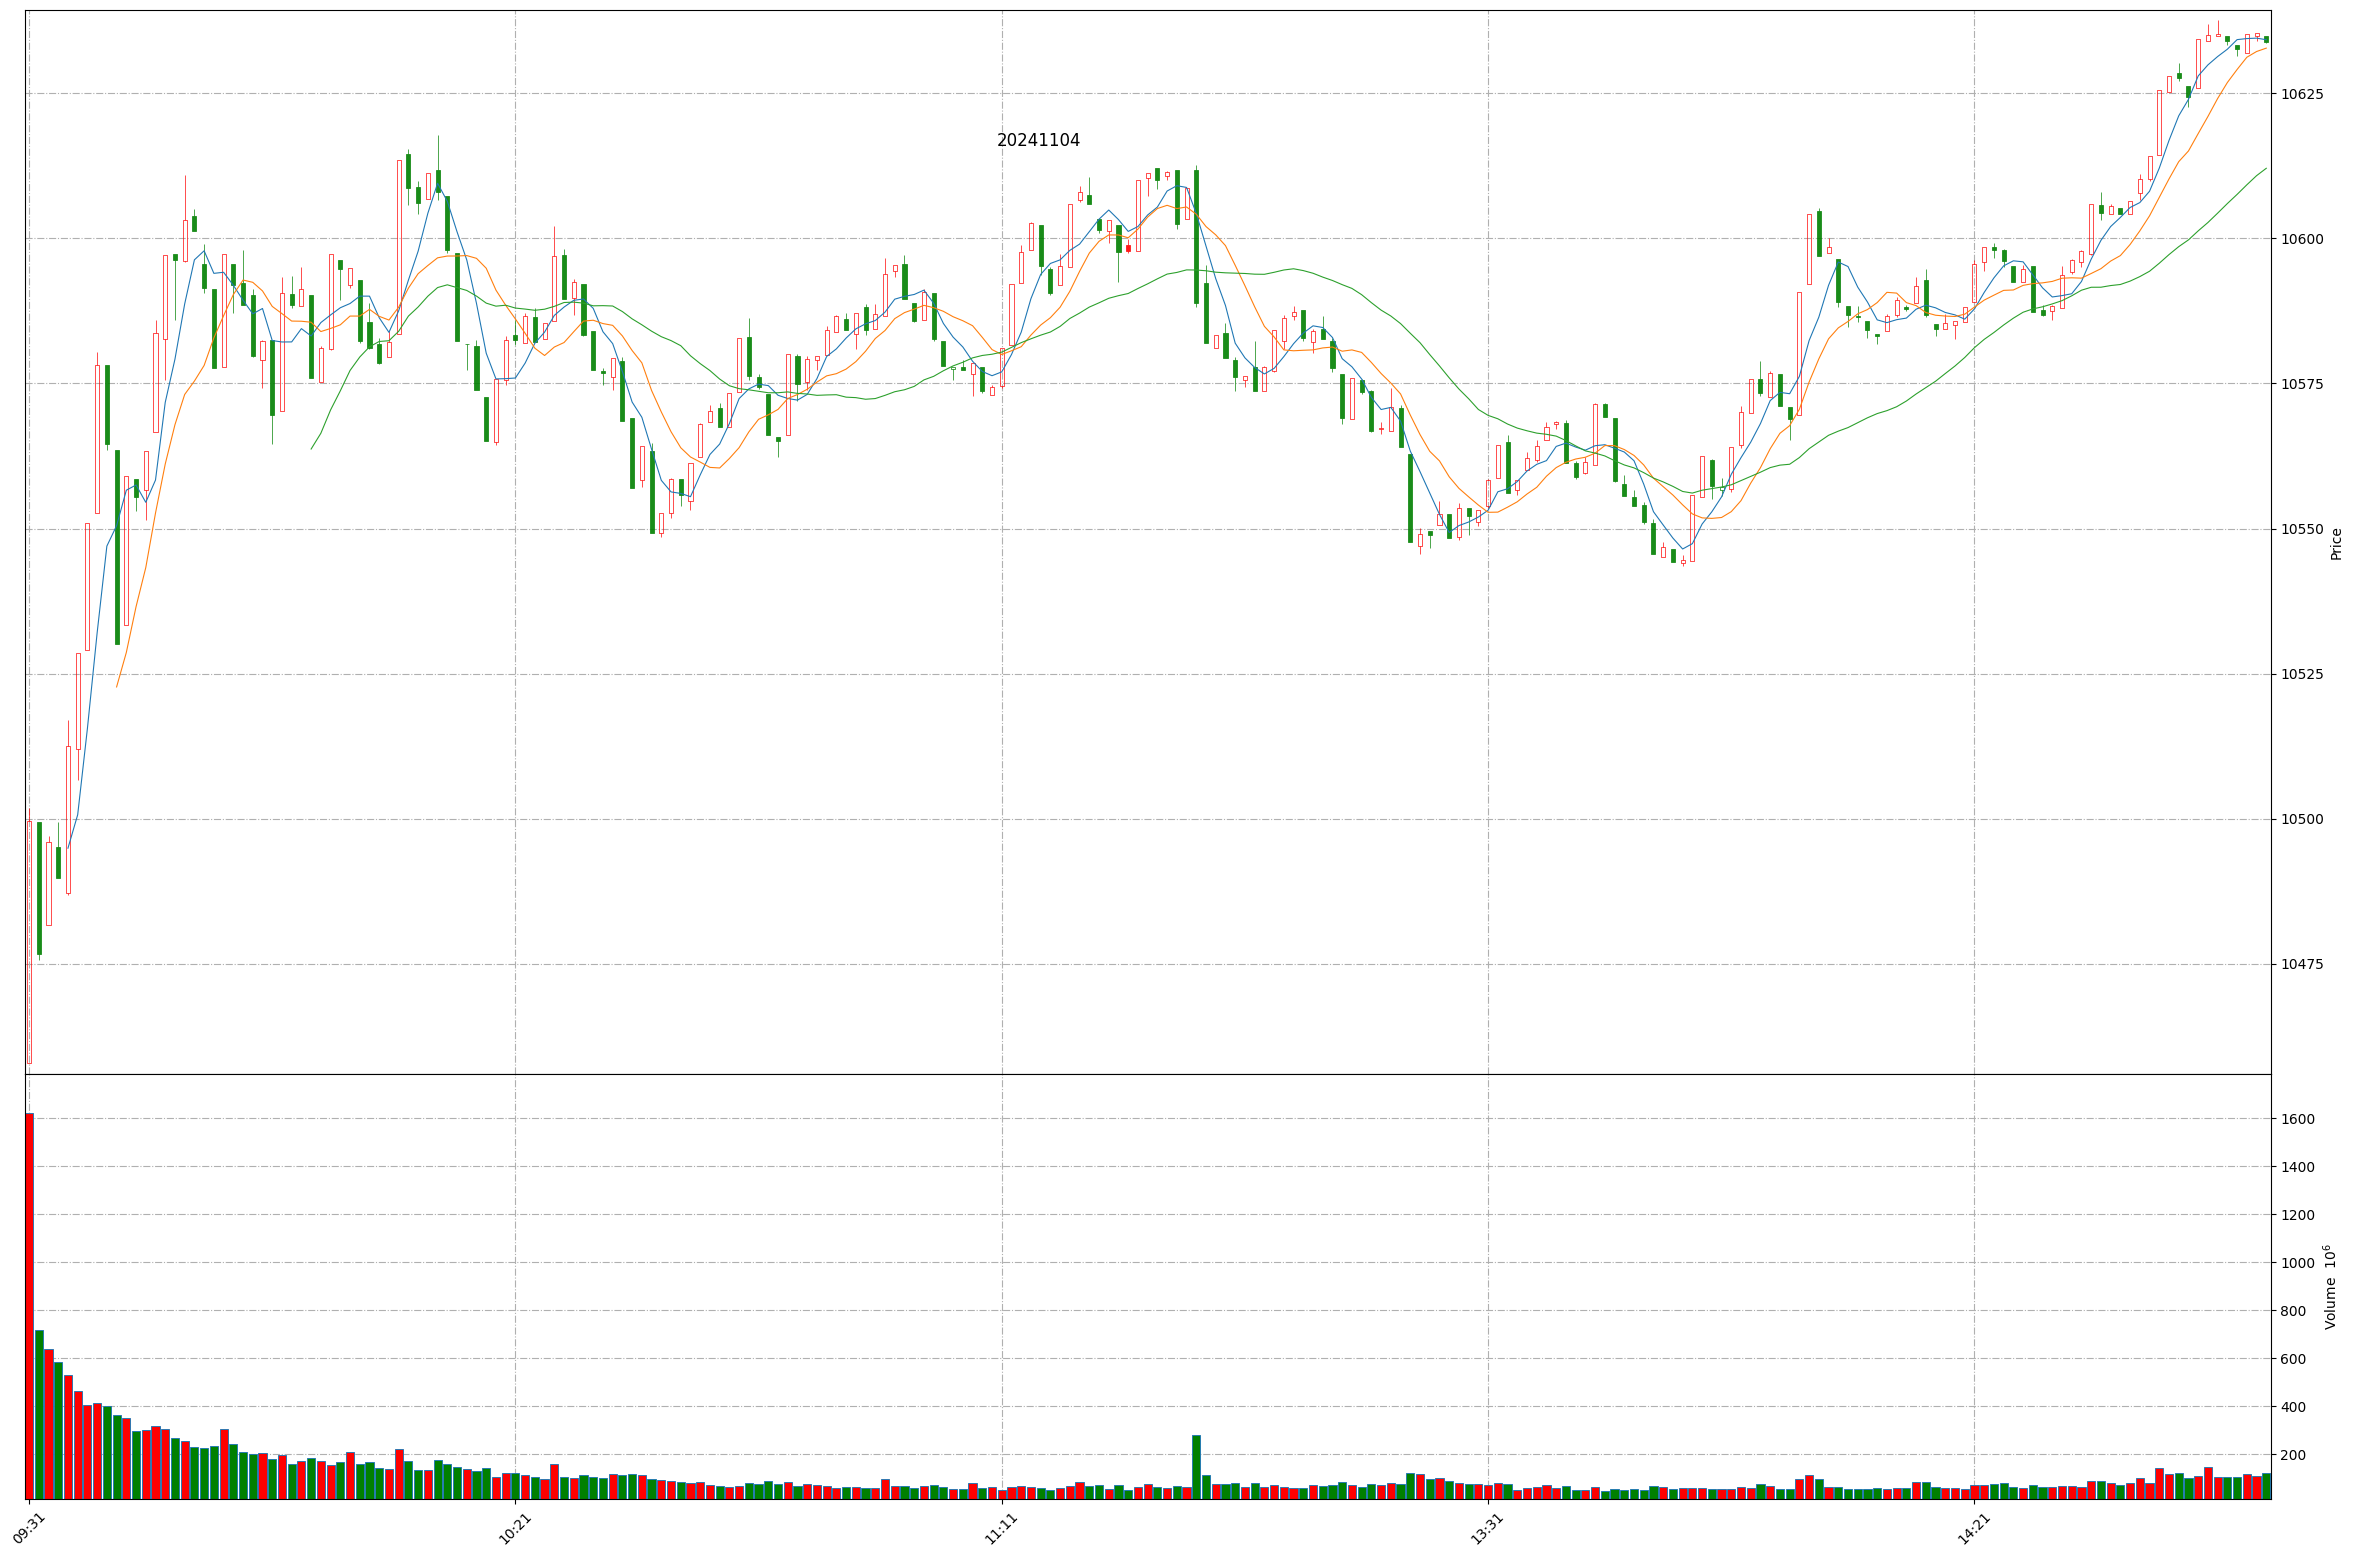
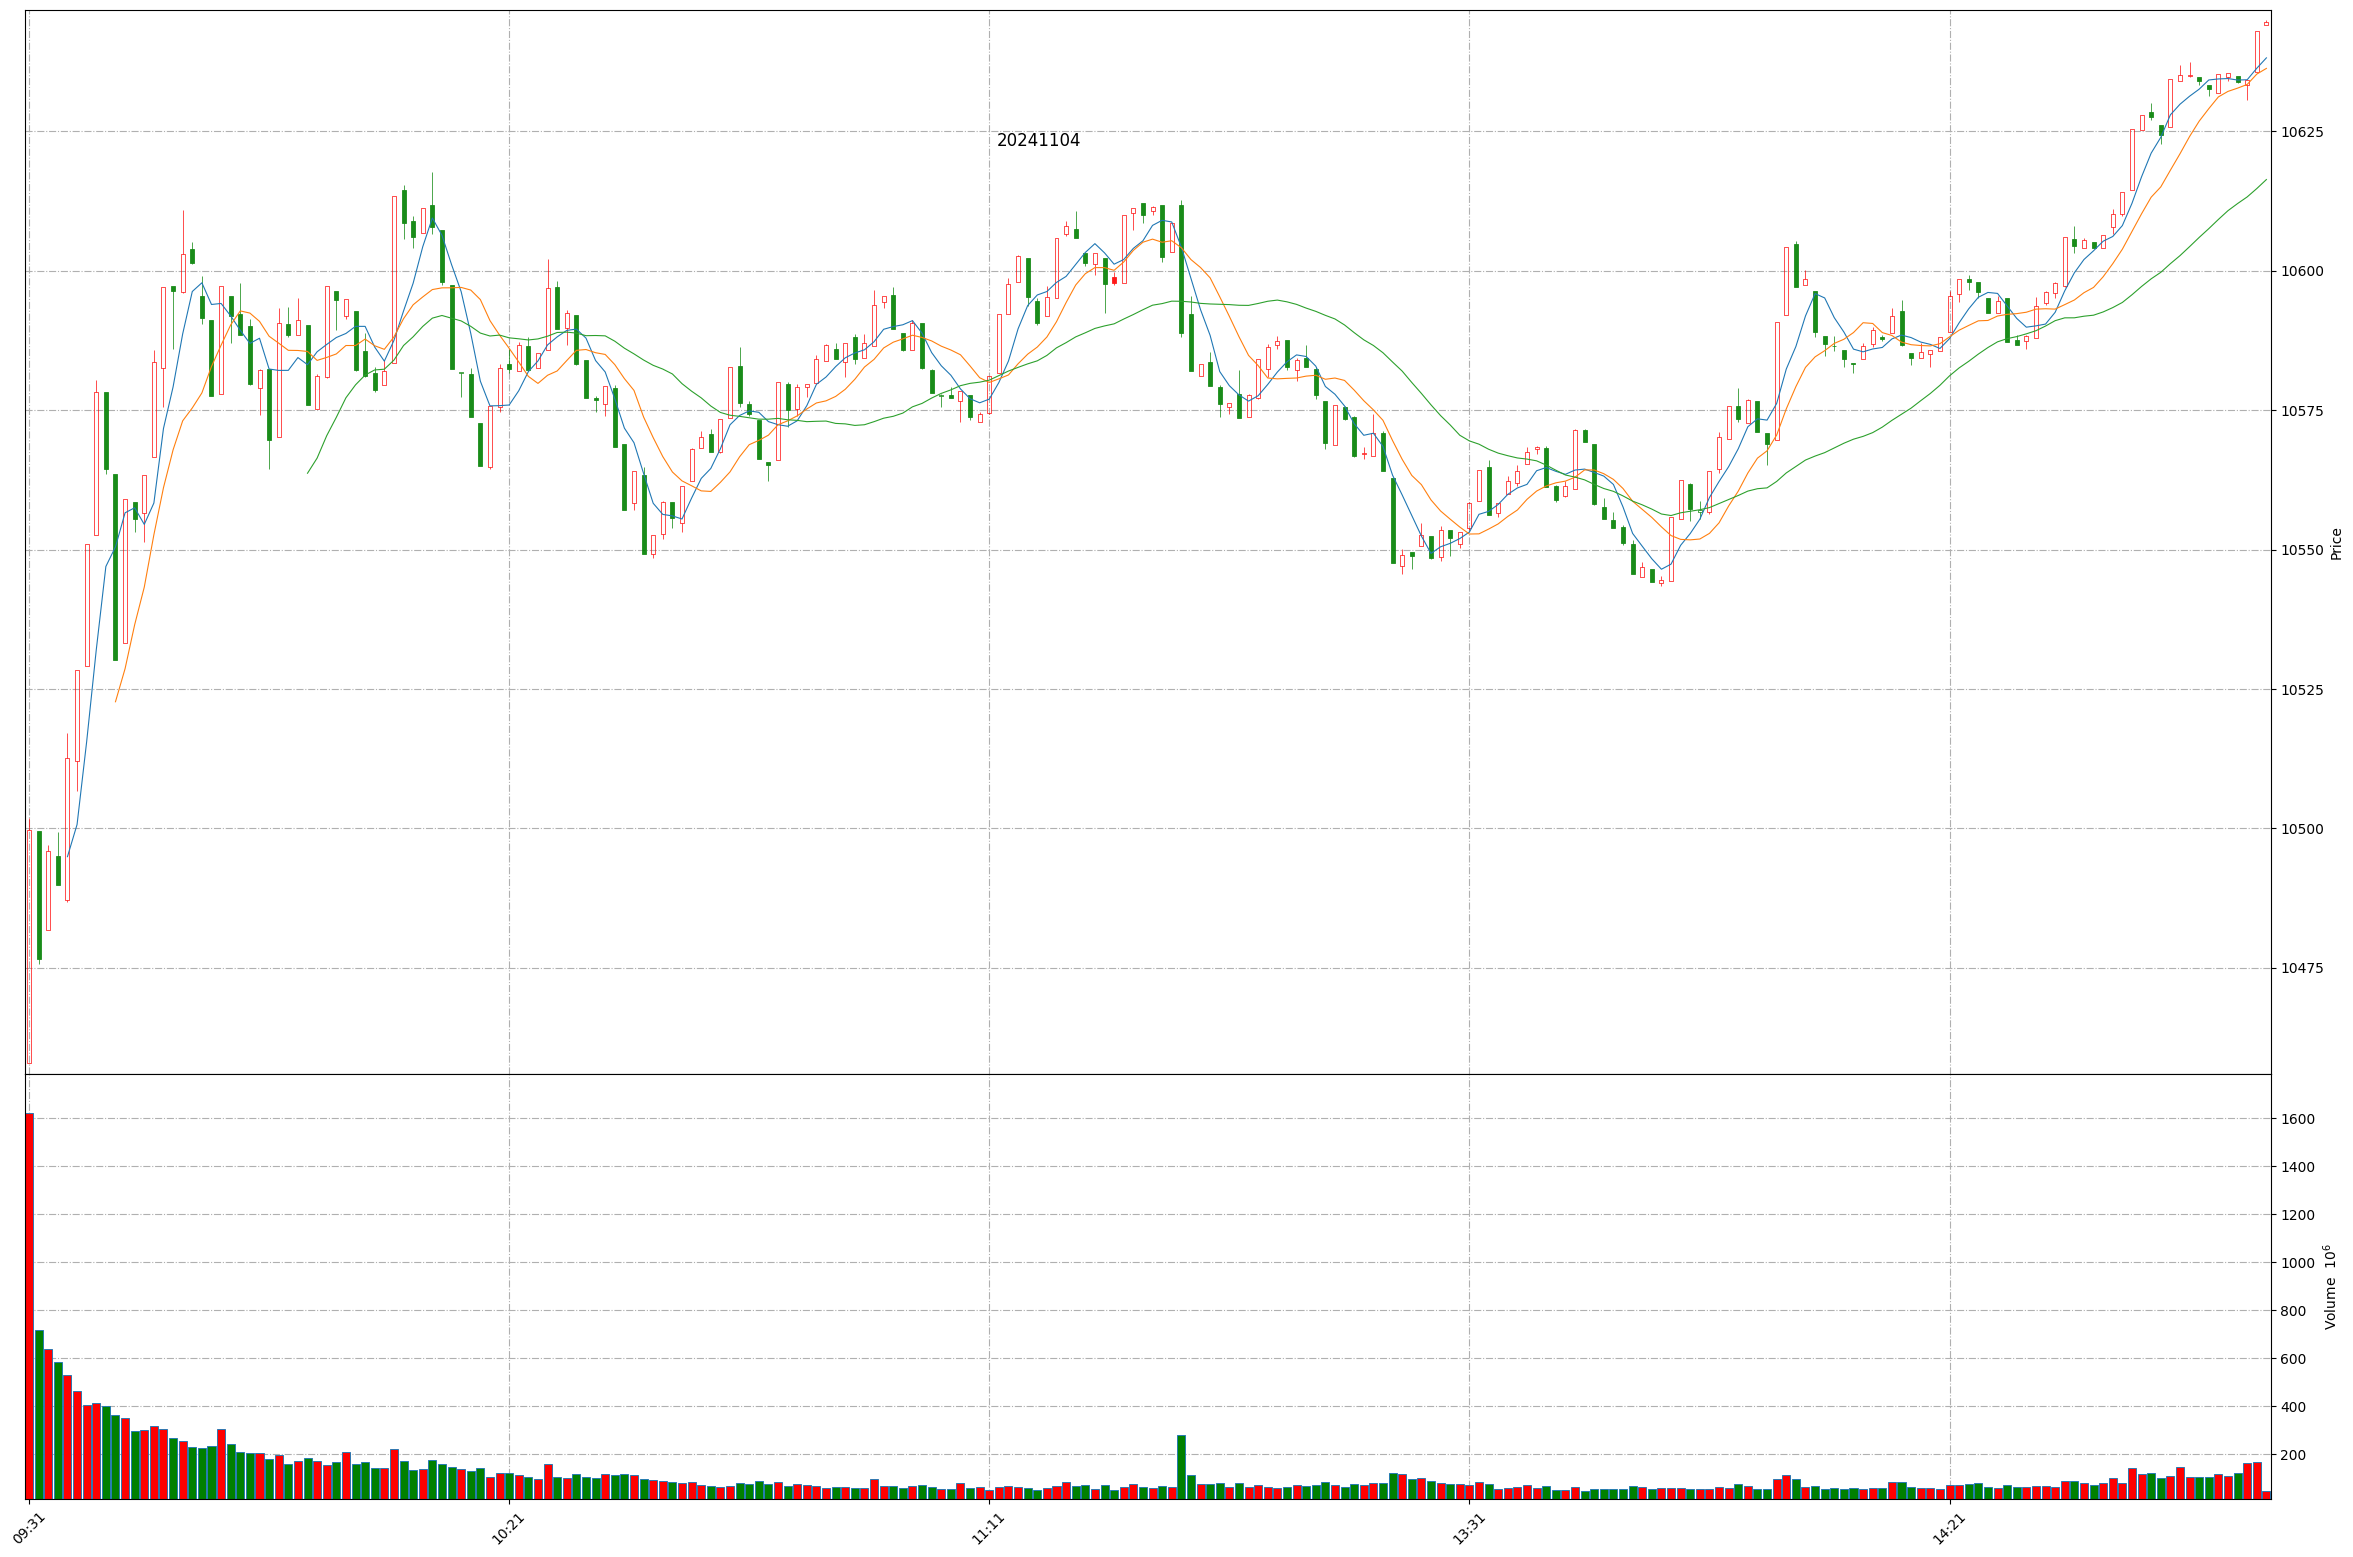
Github action update at 2024-11-04 14:53:37.

diff --git a/README.md b/README.md
@@ -1,11 +1,11 @@
 
 # Daily-A-share-market-quotes 每日 A 股指数（5min 更新）- 20241104
 
-### 上证指数 20241104 14:51
+### 上证指数 20241104 14:53
 ![](./fig/2024/11/20241104-sh000001.png)
 
-### 深证成指 20241104 14:51
+### 深证成指 20241104 14:53
 ![](./fig/2024/11/20241104-sz399001.png)
 
-### 北证50 20241104 14:51
+### 北证50 20241104 14:53
 ![](./fig/2024/11/20241104-bj899050.png)
